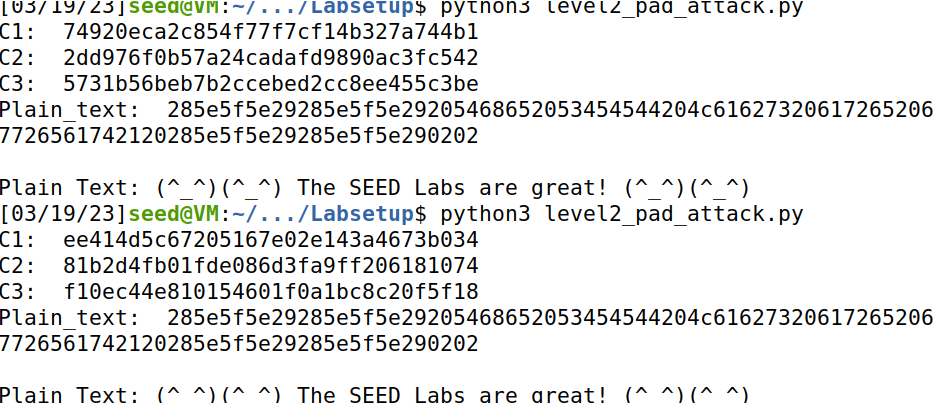
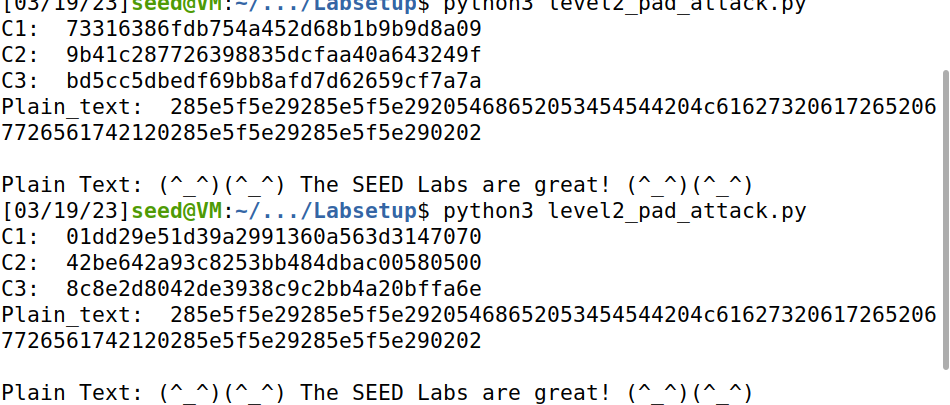
Modified files

Changed region(s): [[0.0, 0.0, 1.0, 0.9231], [0.0, 0.9231, 0.803, 1.0]]

diff --git a/5-Padding-Oracle-Attack/Labsetup/level2_pad_attack.py b/5-Padding-Oracle-Attack/Labsetup/level2_pad_attack.py
@@ -131,7 +131,7 @@ if __name__ == "__main__":
                     secret[16-bit] = D2[16-bit] ^ xor_block[16-bit]
                     next_pad = bit + 1
                     for rev_index in range(1,next_pad):
-                        CC1[16 - rev_index] = 	next_pad ^ secret[16-rev_index] ^ xor_block[16-rev_index]
+                        CC1[16 - rev_index] = 	next_pad ^ D2[16-rev_index]
                     break
         Plain_text = secret.hex() + Plain_text
 		              
